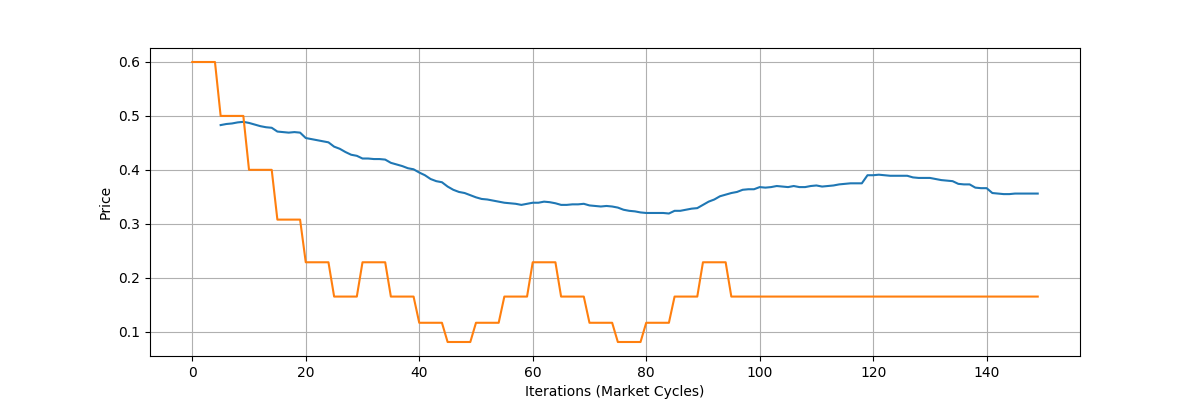
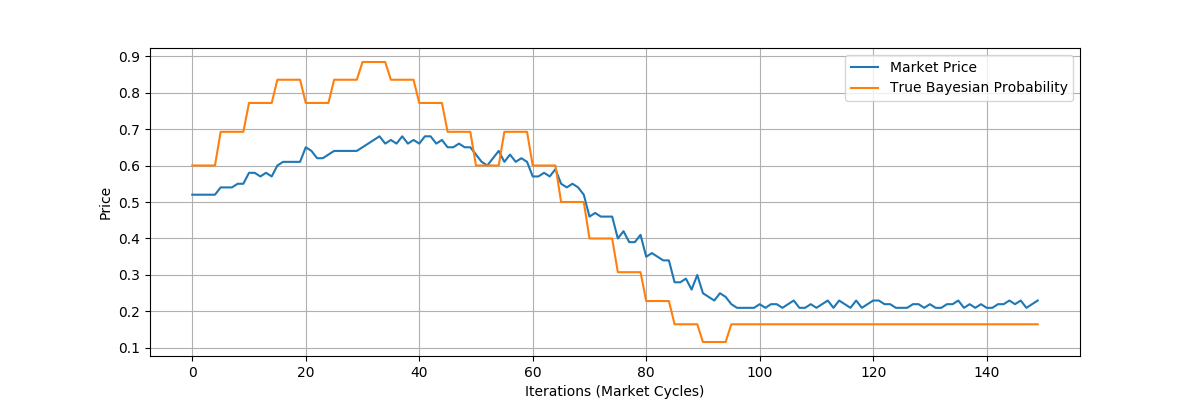
latest version

diff --git a/main.py b/main.py
@@ -13,14 +13,16 @@ args = parser.parse_args()
 N_AGENTS = args.n
 MAX_ITER = args.i
 
-N_EVIDENCE = 20
-FRACTION_RECEIVING_EVIDENCE = 0.1
-FRACTION_EXTRA_TIME = 0.333333
+TICK_SIZE = 0.01  #This is the smallest discrete unit of price
+
+N_EVIDENCE = 20 #Number of pieces of evidence introduced to the system
+FRACTION_RECEIVING_EVIDENCE = 0.1   #Fraction of agents who receive evidence when it is introduced
+FRACTION_EXTRA_TIME = 0.333333      #Extra time is time after all evidence has been introduced, so that agents can continue to trade
 EVIDENCE_TIME = int((1-FRACTION_EXTRA_TIME)*MAX_ITER)
 
-#Values pertaining to agent behavior
-RISK_FACTOR = 0.02
-STUBBORNNESS = 0.1 #range from 0 (trusts the market) to 1 (only trust yourself!)
+####Values pertaining to agent behavior
+RISK_FACTOR = 0.02  #Used to determine how many shares an agent buys, when it expects to profit
+STUBBORNNESS = 0.1  #range from 0 (trusts the market) to 1 (only trust yourself!)
 
 TIME = 0 #This will be the time which will allow the bids/asks to be ordered based on how old they are
 
@@ -30,9 +32,10 @@ class Market:
     old_market_price = None
     
     def __init__(self, n):
-        self.all_agents = [Agent(i, 0.5) for i in range(0,n)]
-        market_price = 0.5
+        self.all_agents = [Agent(i, 0.5) for i in range(0,n)]   #all agents are initialized with a belief of 0.5
+        self.market_price = 0.5
         
+    #check if a given agent can afford a transaction
     def is_broke(self, agent_id, price, type_purchase):
         if self.all_agents[agent_id].wealth < price:
             if type_purchase == "FOR" and self.all_agents[agent_id].n_contracts_against >= 1: #if they have a contract against to sell, they aren't really broke!
@@ -64,7 +67,7 @@ class Bid:
     price = None
     age = None
     agent_id = None
-    priority = None
+    priority = None #this is for heapq to properly sort the heap (you can ignore it)
     
     def __lt__(self, other):
         return self.priority < other.priority
@@ -96,6 +99,7 @@ class Agent:
         new_belief = old_belief / (old_belief + adjusted_bayes_factor*(1-old_belief))
         self.belief = new_belief
         
+    #Place bids "for" the proposition
     def for_main(self, bids_for, bids_against, market_price):
         max_for = heapq.nsmallest(1, bids_for)
         max_against = heapq.nsmallest(1, bids_against)
@@ -104,15 +108,11 @@ class Agent:
         
         if max_for == []:            #if no bids_for have been placed yet
             if max_against == []:       #if no bids_against have been placed yet
-                if market_price == None:
-                    buy_price = self.belief/2          #offer to buy at half the price you think it's worth (this choice is arbitrary, there is no market information yet about the actual value)
-                else:
-                    buy_price = market_price + 0.001
+                buy_price = market_price + TICK_SIZE
             else:
                 buy_price = 1 - max_against[0].price             #offer to buy at the cheapest price
         else:
-            buy_price = max_for[0].price 
-            buy_price += 0.001               #offer to buy at 1 cent more than the next highest bid
+            buy_price = max_for[0].price + TICK_SIZE #offer to buy at 1 cent more than the next highest bid             
             
         n_would_like_to_buy = int((self.belief-buy_price)/RISK_FACTOR)
         n_can_buy = int(self.wealth/buy_price) + self.n_contracts_against
@@ -121,23 +121,22 @@ class Agent:
             place_bid_for(self, bids_for, buy_price)
             n_will_buy -= 1
     
+    #Place bids "against" the proposition
+    #Here, the price is market price is flipped: (1-market_price) If "for" contracts are trading for 90 cents, then "against" contracts are trading for 10 cents.
     def against_main(self, bids_for, bids_against, market_price):
         max_for = heapq.nsmallest(1, bids_for)
         max_against = heapq.nsmallest(1, bids_against)
         buy_price = 1
-        against_belief = 1-self.belief
+        against_belief = 1-self.belief 
         
         if max_against == []:           #if no bids_against have been placed yet
             if max_for == []:           #if no bids_for have been placed yet
-                if market_price == None:
-                    buy_price = against_belief/2      #offer to buy for half what you think it's worth (this choice is arbitrary, there is no market information yet about the actual value)
-                else:
-                    buy_price = (1-market_price) + 0.001
+                buy_price = (1-market_price) + TICK_SIZE
             else:
                 buy_price = 1 - max_for[0].price          #offer to buy at cheapest price
         else:
             buy_price = max_against[0].price
-            buy_price += 0.001            #offer to buy at 1 cent more than highest bid
+            buy_price += TICK_SIZE            #offer to buy at 1 cent more than highest bid
             
         n_would_like_to_buy = int((against_belief-buy_price)/RISK_FACTOR)
         n_can_buy = int(self.wealth/buy_price) + self.n_contracts_for
@@ -247,7 +246,7 @@ def learn_from_market(market):
     for i in range(0, N_AGENTS):
         market.all_agents[i].update_belief_given_market(bayes_factor)
 def main():
-    the_almighty = God(0.6, 1-0.6)
+    the_almighty = God(0.6, 1-0.6) #We use this object to distribute evidence, and maintain the complete bayesian probability
     
     iters_per_evidence = int(EVIDENCE_TIME/N_EVIDENCE)
     
@@ -274,12 +273,12 @@ def main():
         random.shuffle(all_agents)
         for a in all_agents:
             
+            #place bids for or against the proposition
             a.for_main(bids_for, bids_against, market.market_price) 
             a.against_main(bids_for, bids_against, market.market_price)  
-                            
             
+            #trade contracts if possible                
             transact(bids_for, bids_against, market)
-            # data.loc[(i*N_AGENTS)+a.i_d] = [i, a.i_d, a.belief, a.wealth, a.n_contracts_for, a.n_contracts_against, market.market_price]
         
         print("Iter: ", i, "\tMarket Price: ", market.market_price)
         price_history.append(market.market_price)
@@ -304,6 +303,7 @@ def main():
     plt.figure(figsize=(12,4))
     plt.plot(range(MAX_ITER), price_history)
     plt.plot(range(MAX_ITER), god_history)
+    plt.legend(['Market Price', 'True Bayesian Probability'])
     plt.xlabel("Iterations (Market Cycles)")
     plt.ylabel("Price")
     plt.grid()
